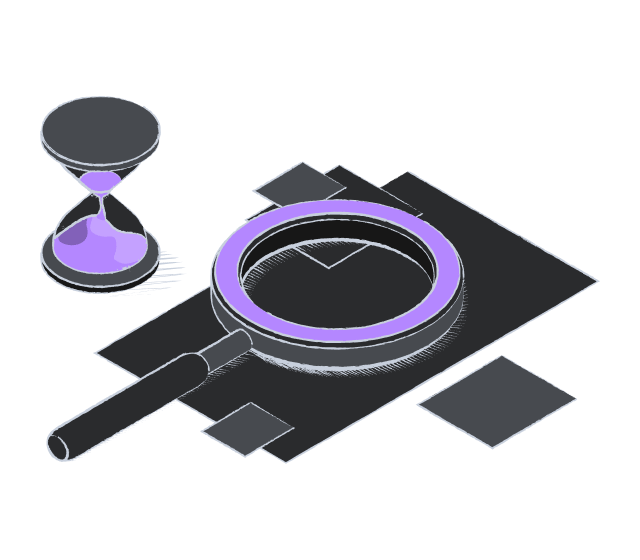
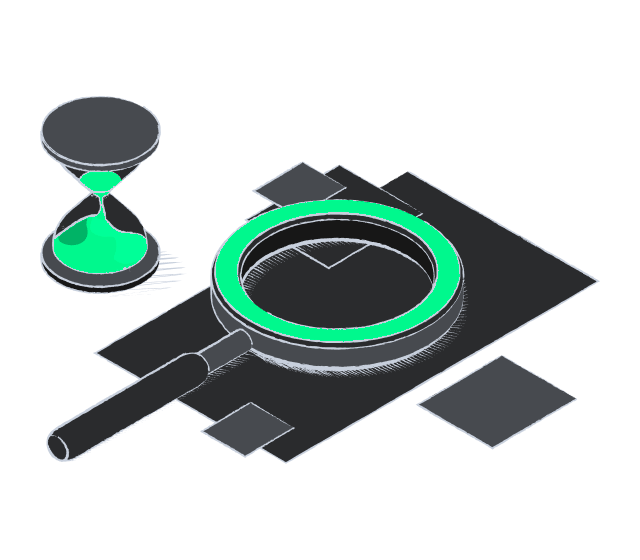
feat(irify-debrand): 逐页扫描补充修复——语言文件品牌文案、空状态图国网绿重着色、导出路径提示去品牌

Changed region(s): [[0.3125, 0.3339, 0.7188, 0.6071], [0.0625, 0.3036, 0.25, 0.4857]]

diff --git a/app/renderer/src/main/src/pages/home/Home.tsx b/app/renderer/src/main/src/pages/home/Home.tsx
@@ -91,7 +91,7 @@ import { apiQueryYakScriptTotal } from '../plugins/utils'
 import { YakitGetOnlinePlugin } from '../mitm/MITMServerHijacking/MITMPluginLocalList'
 import { apiQueryPortsBase } from '../assetViewer/PortTable/utils'
 import type { QueryPortsRequest } from '../assetViewer/PortAssetPage'
-import { getReleaseEditionName, isCommunityYakit, isEnpriTrace, isEnpriTraceAgent } from '@/utils/envfile'
+import { getReleaseEditionName, isCommunityYakit, isEnpriTrace, isEnpriTraceAgent, isIRify } from '@/utils/envfile'
 import { YakitEmpty } from '@/components/yakitUI/YakitEmpty/YakitEmpty'
 import { YakitResizeBox } from '@/components/yakitUI/YakitResizeBox/YakitResizeBox'
 import ReactResizeDetector from 'react-resize-detector'
@@ -167,7 +167,7 @@ const Home: React.FC<HomeProp> = (props) => {
         label: t('YakitRoute.YakRunner'),
         icon: <PublicToolYakScriptIcon />,
         iconStyle: { backgroundColor: '#8863f7', padding: 1 },
-        desc: t('YakitRoute.yaklangProgramming'),
+        desc: isIRify() ? t('YakitRoute.scriptProgramming') : t('YakitRoute.yaklangProgramming'),
         rightIcon: <OutlineArrowrightIcon />,
         onClick: () => onMenu({ route: YakitRoute.YakScript }),
       },
@@ -203,7 +203,9 @@ const Home: React.FC<HomeProp> = (props) => {
         label: t('YakitRoute.pluginHub'),
         icon: <PublicToolPluginHubIcon />,
         iconStyle: { backgroundColor: '#F4736B', padding: 1 },
-        desc: t('YakitRoute.massiveYakitPluginsOne-ClickDownload', { edition: getReleaseEditionName() }),
+        desc: isIRify()
+          ? t('YakitRoute.massivePluginsOne-ClickDownload')
+          : t('YakitRoute.massiveYakitPluginsOne-ClickDownload', { edition: getReleaseEditionName() }),
         rightIcon: <OutlineArrowrightIcon />,
         onClick: () => onMenu({ route: YakitRoute.Plugin_Hub }),
       },

diff --git a/app/renderer/src/main/src/utils/ConfigYaklangEnvironment.tsx b/app/renderer/src/main/src/utils/ConfigYaklangEnvironment.tsx
@@ -1,6 +1,7 @@
 import type React from 'react'
 import { useEffect, useState } from 'react'
 import { showModal } from '@/utils/showModal'
+import { isIRify } from '@/utils/envfile'
 import { Alert, Button, Form, Space, Spin, Table, Tag, Tooltip } from 'antd'
 import { useMemoizedFn } from 'ahooks'
 import { CopyableField, InputItem } from '@/utils/inputUtil'
@@ -210,7 +211,12 @@ export const ConfigYaklangEnvironment: React.FC<ConfigYaklangEnvironmentProp> = 
 
 export const showConfigYaklangEnvironment = (title?: string) => {
   const m = showYakitModal({
-    title: (modalT) => (title ? title : modalT('ConfigYaklangEnvironment.configYaklangSystemEnvironmentVariable')),
+    title: (modalT) =>
+      title
+        ? title
+        : isIRify()
+          ? modalT('ConfigYaklangEnvironment.configSystemEnvironmentVariable')
+          : modalT('ConfigYaklangEnvironment.configYaklangSystemEnvironmentVariable'),
     width: 800,
     content: (
       <>

diff --git a/app/renderer/src/main/src/routes/newRoute.tsx b/app/renderer/src/main/src/routes/newRoute.tsx
@@ -373,7 +373,7 @@ export const YakitRouteToPageInfo: Record<
   'yakrunner-audit-code': {
     label: '代码审计',
     labelUi: 'YakitRoute.codeAudit',
-    describeUi: 'YakitRoute.auditRuleCodeAnalysis',
+    describeUi: isIRify() ? 'YakitRoute.auditRuleCodeAnalysisDebrand' : 'YakitRoute.auditRuleCodeAnalysis',
   },
   'irify-ai-code-audit': {
     label: 'AI代码审计',
